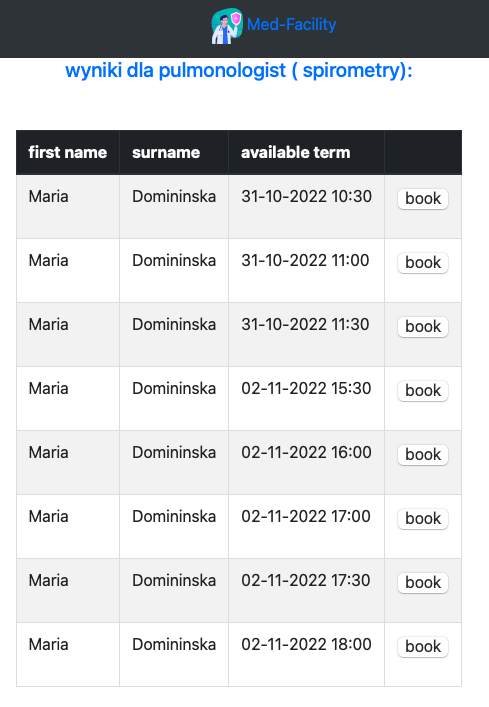
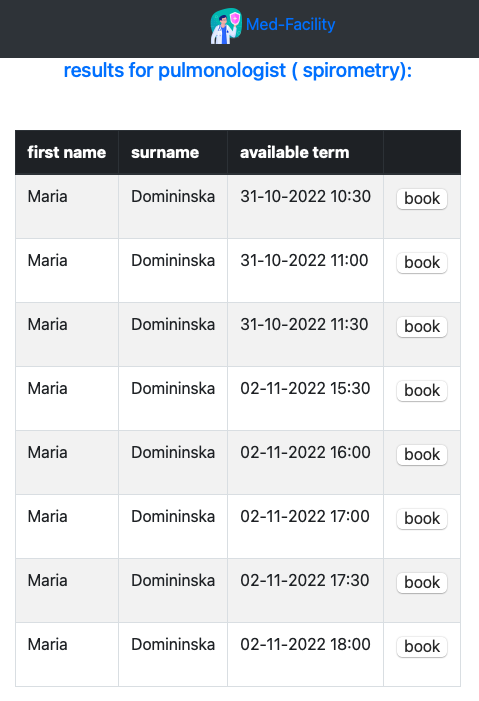
language fix

diff --git a/src/main/resources/templates/user/search_result.html b/src/main/resources/templates/user/search_result.html
@@ -2,7 +2,7 @@
 <html xmlns:th="http://www.thymeleaf.org">
 <body>
 <h5 class="text-center text-primary">
-    <p>wyniki dla
+    <p>results for
         <span th:text="${selectedSpec.name}"/> (
         <span th:text="${selectedService.name}"/>):
     </p>
